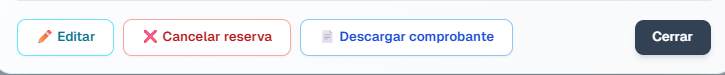
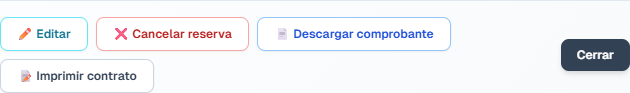
docs: manual de octubre con contrato, usuarios y soporte
El manual suma imprimir y configurar el contrato, los usuarios del
personal con sus roles, el panel de Soporte y sus preguntas
frecuentes. Las preguntas frecuentes de la app suman el contrato y los
usuarios, y la ayuda del rol Pileta dice lo que ve ahora: solo los pases.

Changed region(s): [[0.0, 0.16, 0.7238, 0.88], [0.8746, 0.2667, 1.0, 0.7733], [0.0, 0.9333, 1.0, 1.0]]

diff --git a/docs/manual/manual.html b/docs/manual/manual.html
@@ -74,10 +74,10 @@
   <div>
     <div class="marca">BALNEARIO ZEUS</div>
     <h1>Manual de uso<br>del sistema</h1>
-    <p class="bajada">Reservas de carpas, sombrillas, estacionamiento y pileta, servicios incluidos, cobros, clientes, reportes y tarifas.</p>
+    <p class="bajada">Reservas de carpas, sombrillas, estacionamiento y pileta, servicios incluidos, cobros, clientes, reportes, tarifas, contratos y usuarios del personal.</p>
   </div>
   <img src="img/03-vista-rapida.png" alt="">
-  <div class="pie">Versión octubre 2026 · Para el encargado del balneario</div>
+  <div class="pie">Versión 20 de octubre de 2026 · Para el dueño y el personal del balneario</div>
 </section>
 
 <!-- ============ CONTENIDO ============ -->
@@ -85,9 +85,9 @@
   <h1 class="cap">Contenido</h1>
   <ol class="indice">
     <li><span class="n">1</span>Entrar al sistema</li>
-    <li><span class="n">2</span>El menú y la pantalla de Inicio</li>
+    <li><span class="n">2</span>El menú, Inicio y Soporte<span class="nuevo">con cambios</span></li>
     <li><span class="n">3</span>Vista rápida: el plano del día</li>
-    <li><span class="n">4</span>Tomar una reserva paso a paso<span class="nuevo">con cambios</span></li>
+    <li><span class="n">4</span>Tomar una reserva paso a paso</li>
     <li><span class="n">5</span>El precio: tarifas, ajustes y avisos</li>
     <li><span class="n">6</span>Ver, cobrar, editar y cancelar una reserva<span class="nuevo">con cambios</span></li>
     <li><span class="n">7</span>Listado de reservas</li>
@@ -96,24 +96,21 @@
     <li><span class="n">10</span>Pileta<span class="nuevo">con cambios</span></li>
     <li><span class="n">11</span>Reportes</li>
     <li><span class="n">12</span>Tarifas: cómo cargar los precios</li>
-    <li><span class="n">13</span>Panel de usuario<span class="nuevo">con cambios</span></li>
-    <li><span class="n">14</span>Preguntas frecuentes</li>
+    <li><span class="n">13</span>Panel de usuario: contrato y usuarios<span class="nuevo">con cambios</span></li>
+    <li><span class="n">14</span>Preguntas frecuentes<span class="nuevo">con cambios</span></li>
   </ol>
 
   <h2>Cómo leer este manual</h2>
   <p>Cada capítulo explica una parte del sistema con capturas de la pantalla real. Los nombres de botones y campos aparecen en <b>negrita</b>, tal como se ven en la pantalla.</p>
-  <p>Si recién empezás, leé en orden los capítulos 1 a 6: con eso ya podés atender el teléfono y el mostrador. Antes de la temporada, leé el capítulo 12 para cargar los precios.</p>
+  <p>Si recién empezás, leé en orden los capítulos 1 a 6: con eso ya podés atender el teléfono y el mostrador. Antes de la temporada, el dueño lee el capítulo 12 para cargar los precios y el 13 para preparar el contrato y darle un usuario a cada persona del balneario.</p>
   <p>El sistema funciona en el navegador (Chrome, Edge o Firefox), en la computadora o en el celular. No hay que instalar nada.</p>
 
   <div class="nota">
     <span class="t">Qué hay de nuevo en esta versión</span>
     <ul>
-      <li><b>Pileta incluida en la carpa:</b> cada carpa trae 4 pases de pileta; elegís a quién le tocan.</li>
-      <li><b>Datos de cada persona</b> (nombre, DNI y edad) en el mismo formulario de la reserva.</li>
-      <li><b>Pases de pileta pagos</b> para quien no entra en los incluidos, vendidos en la misma reserva.</li>
-      <li><b>Cocheras incluidas:</b> el estacionamiento queda atado a la carpa y se mueve y se cancela con ella.</li>
-      <li><b>Cuenta de la reserva:</b> la carpa y todo lo suyo se cobran juntos, con un solo pago.</li>
-      <li><b>Avisos visibles</b> arriba a la derecha cuando algo sale bien o hay que revisar algo.</li>
+      <li><b>Contrato para firmar:</b> cada carpa y sombrilla imprime su contrato con los datos del cliente y las condiciones del balneario (capítulos 6 y 13).</li>
+      <li><b>Un usuario para cada persona:</b> el dueño crea los usuarios del personal, y cada rol ve solo lo suyo (capítulo 13).</li>
+      <li><b>Soporte:</b> preguntas frecuentes y mensajes con nosotros, desde el mismo sistema (capítulo 2).</li>
     </ul>
   </div>
 </section>
@@ -123,6 +120,7 @@
   <h1 class="cap"><span class="n">1</span>Entrar al sistema</h1>
   <p>Abrí la dirección del sistema en el navegador, escribí tu <b>Email</b> y tu <b>Contraseña</b> y tocá <b>Ingresar</b>.</p>
   <figure class="w70"><img src="img/01-ingreso.png" alt=""><figcaption>Pantalla de ingreso.</figcaption></figure>
+  <p>Cada persona entra con su propio usuario. El del dueño es la cuenta principal del balneario; los del personal los crea el dueño (capítulo 13). Según el rol, el menú muestra más o menos secciones.</p>
 
   <h2>La sesión dura una hora</h2>
   <div class="lado">
@@ -137,7 +135,7 @@
 
 <!-- ============ 2 ============ -->
 <section class="capitulo">
-  <h1 class="cap"><span class="n">2</span>El menú y la pantalla de Inicio</h1>
+  <h1 class="cap"><span class="n">2</span>El menú, Inicio y Soporte</h1>
   <div class="lado">
     <figure class="f25"><img src="img/02-menu.png" alt=""><figcaption>Menú lateral.</figcaption></figure>
     <div class="texto">
@@ -152,8 +150,10 @@
         <tr><td>Clientes</td><td>Fichas de clientes y deudas.</td></tr>
         <tr><td>Reportes</td><td>Cobros y ocupación por fechas.</td></tr>
         <tr><td>Tarifas</td><td>Temporadas, sectores y precios.</td></tr>
-        <tr><td>Panel de usuario</td><td>Tu email, tu contraseña, los datos del balneario y las reglas de las reservas.</td></tr>
+        <tr><td>Panel de usuario</td><td>Tu email y tu contraseña. El dueño además ve los datos del balneario, el contrato y los usuarios.</td></tr>
+        <tr><td>Soporte</td><td>Abajo de todo: preguntas frecuentes y mensajes con nosotros.</td></tr>
       </table>
+      <p>Así ve el menú el dueño. El empleado no ve <b>Tarifas</b> ni <b>Soporte</b>; el usuario de pileta solo ve <b>Pileta</b> y <b>Panel de usuario</b>.</p>
     </div>
   </div>
 
@@ -164,6 +164,21 @@
   <h2>Los avisos</h2>
   <p>Cuando guardás algo o hay algo para revisar, aparece un aviso arriba a la derecha de la pantalla. Los avisos de que algo salió bien se van solos; los que piden revisar algo quedan hasta que los cerrás con la <b>×</b>.</p>
   <figure class="w60"><img src="img/06-aviso.png" alt=""><figcaption>Aviso después de mover una carpa que tiene un pase de pileta pago.</figcaption></figure>
+
+  <h2>Soporte: preguntas frecuentes y mensajes</h2>
+  <div class="lado">
+    <div class="texto">
+      <p>El botón <b>Soporte</b>, abajo de todo en el menú, abre un panel encima de la pantalla en la que estás. Lo que estabas haciendo queda como estaba: al cerrar el panel seguís donde estabas.</p>
+      <p>Tiene dos pestañas:</p>
+      <ul>
+        <li><b>Preguntas frecuentes</b>: las dudas más comunes, con los pasos y las capturas. Arriba aparecen las de la pantalla en la que estás, y el buscador encuentra por palabra (pago, cochera, tarifa…).</li>
+        <li><b>Mensajes</b>: para escribirnos. Podés marcar si es un error, una sugerencia o una consulta. Te respondemos ahí mismo.</li>
+      </ul>
+      <p>Cuando hay una respuesta nuestra sin leer, el botón Soporte muestra un número y el panel se abre directo en Mensajes.</p>
+      <div class="nota"><p>Soporte lo usa solo el dueño, que es quien habla con nosotros. El personal no lo ve: si tiene una duda, se la consulta al dueño.</p></div>
+    </div>
+    <figure class="f40"><img src="img/02-soporte.png" alt=""><figcaption>Soporte, abierto en Preguntas frecuentes.</figcaption></figure>
+  </div>
 </section>
 
 <!-- ============ 3 ============ -->
@@ -326,7 +341,7 @@
         <li><b>Servicios incluidos</b>: el saldo de toda la cuenta y cada cosa asociada.</li>
         <li><b>Personas</b>: el titular y los acompañantes, con sus pases de pileta.</li>
         <li><b>Historial de pagos</b> de la carpa.</li>
-        <li>Abajo, los botones <b>Editar</b>, <b>Cancelar reserva</b>, <b>Descargar comprobante</b> y <b>Cerrar</b>.</li>
+        <li>Abajo, los botones <b>Editar</b>, <b>Cancelar reserva</b>, <b>Descargar comprobante</b>, <b>Imprimir contrato</b> (en carpas y sombrillas) y <b>Cerrar</b>.</li>
       </ul>
       <div class="nota"><p>El <b>Resumen financiero</b> muestra solo la carpa. Lo que debe el cliente en total está en <b>Saldo de la cuenta</b>, dentro de Servicios incluidos.</p></div>
     </div>
@@ -381,6 +396,19 @@
 
   <h2>Descargar el comprobante</h2>
   <p><b>Descargar comprobante</b> genera un PDF para darle al cliente. Es el comprobante de <b>toda la cuenta</b>: la carpa, la pileta incluida con los nombres, cada cochera, cada pase pago, el <b>Total de la cuenta</b>, cada pago como lo hizo el cliente y el <b>saldo</b>.</p>
+
+  <div style="break-inside: avoid">
+  <h2>Imprimir el contrato</h2>
+  <p>Las carpas y las sombrillas tienen <b>Imprimir contrato</b>. Baja un PDF listo para imprimir y que el cliente lo firme. Lleva:</p>
+  <ul>
+    <li><b>Datos del titular</b>: nombre, DNI, ciudad, dirección y teléfono, de la ficha del cliente.</li>
+    <li><b>Contratación</b>: la unidad, el período, el importe total de la cuenta, la forma de pago (los medios de los pagos hechos) y las cocheras con su patente.</li>
+    <li><b>Registro de personas</b>: los acompañantes cargados, y renglones con puntos para completar a mano hasta el máximo de personas.</li>
+    <li><b>Condiciones generales</b> del balneario, con las fechas y los horarios de la temporada en negrita.</li>
+  </ul>
+  </div>
+  <figure class="w70"><img src="img/06-contrato.png" alt=""><figcaption>El principio de un contrato impreso.</figcaption></figure>
+  <p>Si en la ficha del cliente falta un dato, como el DNI o la dirección, en el contrato sale con puntos para completarlo a mano. El título y las condiciones los carga el dueño en <b>Panel de usuario › Contrato</b> (capítulo 13).</p>
 
   <h2>Los botones del pie</h2>
   <figure class="w80"><img src="img/06-botones.png" alt=""></figure>
@@ -467,8 +495,12 @@
     <tr><td>(sin etiqueta)</td><td>Un pase suelto, para alguien que viene solo a la pileta.</td></tr>
   </table>
   <p>Con <b>Nuevo Pase</b> vendés un pase suelto: elegís el cliente (obligatorio), las fechas, cuántos adultos y niños, y el precio por adulto y por niño por día. El sistema calcula el total. <b>Ver Detalle</b> abre el pase para cobrarlo o editarlo.</p>
-  <figure class="w60"><img src="img/10-pileta.png" alt=""><figcaption>Gestión de Pileta, con pases incluidos en carpas.</figcaption></figure>
+  <figure class="w50"><img src="img/10-pileta.png" alt=""><figcaption>Gestión de Pileta, con pases incluidos en carpas.</figcaption></figure>
   <p>La pileta no usa las tarifas del capítulo 12: el precio por persona se carga en cada pase.</p>
+  <div class="nota">
+    <span class="t">El usuario de pileta</span>
+    <p>Quien controla la entrada a la pileta puede tener su propio usuario, con el rol <b>Pileta</b> (capítulo 13). Lo usa desde el celular y ve solo esta pantalla: la lista de pases y quién va en cada uno. No ve cobros ni clientes, y no vende ni cambia pases.</p>
+  </div>
 </section>
 
 <!-- ============ 11 ============ -->
@@ -529,8 +561,8 @@
 
 <!-- ============ 13 ============ -->
 <section class="capitulo">
-  <h1 class="cap"><span class="n">13</span>Panel de usuario</h1>
-  <p>En <b>Panel de usuario</b> hay dos pestañas.</p>
+  <h1 class="cap"><span class="n">13</span>Panel de usuario: contrato y usuarios</h1>
+  <p>En <b>Panel de usuario</b> el dueño ve cuatro pestañas: <b>Perfil</b>, <b>Establecimiento</b>, <b>Contrato</b> y <b>Usuarios</b>. El personal ve solo Perfil.</p>
   <h2>Perfil</h2>
   <p>Tu email de ingreso. Con <b>Cambiar email</b> y <b>Cambiar contraseña</b> los actualizás; siempre pide la contraseña actual. La contraseña nueva tiene que tener al menos 8 caracteres.</p>
   <figure class="w70"><img src="img/12-perfil.png" alt=""><figcaption>Pestaña Perfil.</figcaption></figure>
@@ -548,6 +580,62 @@
     </div>
     <figure class="f50"><img src="img/12-establecimiento.png" alt=""><figcaption>Servicios, capacidad y reglas de las reservas.</figcaption></figure>
   </div>
+</section>
+
+<section class="capitulo">
+  <h2>Contrato</h2>
+  <p>Acá se carga lo que sale en el contrato de cada carpa y sombrilla (capítulo 6). Tiene tres partes. Abajo, <b>Guardar</b> aplica los cambios y <b>Vista previa en PDF</b> baja un contrato de ejemplo, con los datos del cliente en blanco.</p>
+  <h3>1 · Título</h3>
+  <p>Va arriba de todo, en mayúsculas. También acepta datos, como {Temporada}.</p>
+  <h3>2 · Datos del contrato</h3>
+  <p>Las fechas, los horarios y las cantidades que cambian de una temporada a otra. Cada dato tiene un nombre y un valor: el valor se cambia acá y se actualiza solo en todo el texto.</p>
+  <figure class="w70"><img src="img/13-contrato-datos.png" alt=""><figcaption>Los datos del contrato de Zeus.</figcaption></figure>
+  <ul>
+    <li><b>+ Agregar dato</b> suma uno nuevo; el tacho lo quita.</li>
+    <li>El botón de insertar, a la derecha de cada dato, lo pone en las condiciones donde está el cursor.</li>
+    <li>Los dos de arriba, con candado, los pone el sistema: <b>Máximo de personas</b> y <b>Balneario</b>. Se cambian en la pestaña Establecimiento.</li>
+  </ul>
+</section>
+
+<section>
+  <h3>3 · Condiciones generales</h3>
+  <p>El texto del contrato. A la izquierda se escribe y a la derecha, en <b>Así se lee en el contrato</b>, se ve cómo sale impreso, con los datos ya puestos y resaltados.</p>
+  <figure><img src="img/13-contrato-texto.png" alt=""><figcaption>Las condiciones y cómo se leen en el contrato.</figcaption></figure>
+  <table>
+    <tr><th style="width:38%">Si escribís</th><th>En el contrato sale</th></tr>
+    <tr><td>{Pileta abre}</td><td>El valor del dato, en negrita: <b>13.30</b>. Mayúsculas y minúsculas dan igual.</td></tr>
+    <tr><td>**OBLIGATORIO**</td><td>El renglón entero en negrita.</td></tr>
+    <tr><td>Un renglón vacío</td><td>Un párrafo nuevo.</td></tr>
+  </table>
+  <p>Un dato sin valor sale con puntos, para completarlo a mano. Si escribís entre llaves un nombre que no está en la tabla, sale tal cual y la pantalla avisa cuál es, para que lo agregues o corrijas el nombre.</p>
+  <div class="ejemplo">
+    <span class="t">Para la temporada que viene</span>
+    <p>Cambiá en la tabla el valor de <b>Temporada</b>, <b>Inicio de temporada</b> y <b>Fin de temporada</b>, y tocá <b>Guardar</b>. No hace falta tocar el texto.</p>
+  </div>
+</section>
+
+<section>
+  <h2>Usuarios: el personal del balneario</h2>
+  <p>Cada persona del balneario entra con su propio usuario y ve solo lo que su rol le permite. El dueño es la cuenta principal: administra todo y es el único que crea usuarios.</p>
+  <div class="lado">
+    <div class="texto">
+      <p>Para crear un usuario, escribí su <b>Email</b>, elegí el <b>Rol</b> y tocá <b>Crear usuario</b>. El sistema arma la clave y la muestra una sola vez: anotala o tocá <b>Copiar usuario y clave</b> y pasásela. Después la persona la puede cambiar desde su Panel de usuario.</p>
+      <p>En la lista, cada usuario tiene:</p>
+      <ul>
+        <li>el <b>rol</b>, que se cambia ahí mismo;</li>
+        <li><b>Clave nueva</b>, si se olvidó la suya: arma otra y la muestra una vez;</li>
+        <li>el tacho, que borra el usuario. Hacelo cuando alguien deja de trabajar en el balneario: así ya no puede entrar.</li>
+      </ul>
+      <p>El dueño aparece primero, sin acciones: su cuenta no se cambia desde acá.</p>
+    </div>
+    <figure class="f50"><img src="img/13-usuarios.png" alt=""><figcaption>El dueño, dos empleados y el de pileta.</figcaption></figure>
+  </div>
+  <table>
+    <tr><th style="width:18%">Rol</th><th>Qué ve y qué puede hacer</th></tr>
+    <tr><td>Dueño</td><td>Todo: reservas, cobros, clientes, reportes, tarifas, la configuración del balneario, el contrato, los usuarios y Soporte.</td></tr>
+    <tr><td>Empleado</td><td>Reservas, cobros, clientes y reportes. Imprime contratos y comprobantes. No ve Tarifas ni Soporte, y no cambia la configuración, el contrato ni los usuarios.</td></tr>
+    <tr><td>Pileta</td><td>Solo la pantalla de Pileta: los pases y quién va en cada uno. No ve cobros ni clientes, y no vende ni cambia pases. Pensado para el celular, en la entrada de la pileta.</td></tr>
+  </table>
 </section>
 
 <!-- ============ 14 ============ -->
@@ -569,6 +657,13 @@
     <tr><td>Un cliente viene con otro auto.</td><td>Escribí la patente nueva en la reserva: la patente va en cada reserva, no solo en la ficha del cliente.</td></tr>
     <tr><td>Quiero saber cuánto se cobró hoy en efectivo.</td><td>Reportes → Pagos, con la fecha de hoy y el método Efectivo.</td></tr>
     <tr><td>Quiero ver quién se fue debiendo plata.</td><td>Clientes, tildando Solo con deuda de reservas terminadas.</td></tr>
+    <tr><td>Quiero imprimir el contrato de una carpa.</td><td>Abrí la reserva y tocá Imprimir contrato, abajo en el detalle.</td></tr>
+    <tr><td>En el contrato sale un dato con puntos.</td><td>Si es del cliente (DNI, dirección), completalo en su ficha. Si es de las condiciones, cargale el valor en Panel de usuario › Contrato.</td></tr>
+    <tr><td>Cambian las fechas o los horarios de la temporada.</td><td>Panel de usuario › Contrato: cambiá el valor en la tabla de datos y tocá Guardar. El texto se actualiza solo.</td></tr>
+    <tr><td>Quiero darle un usuario a un empleado.</td><td>Panel de usuario › Usuarios: su email, el rol Empleado y Crear usuario. Pasale la clave que aparece: no se vuelve a mostrar.</td></tr>
+    <tr><td>Un empleado se olvidó la clave.</td><td>Panel de usuario › Usuarios, Clave nueva en su renglón.</td></tr>
+    <tr><td>El empleado no ve Tarifas ni Soporte.</td><td>Es así: esas dos las usa solo el dueño.</td></tr>
+    <tr><td>Tengo una duda o encontré un error.</td><td>Soporte, abajo en el menú: buscá en Preguntas frecuentes o escribinos en Mensajes.</td></tr>
   </table>
 </section>
 

diff --git a/frontend/src/config/preguntasFrecuentes.js b/frontend/src/config/preguntasFrecuentes.js
@@ -241,6 +241,18 @@ export const PREGUNTAS_FRECUENTES = [
     ],
     secciones: ['reservas', 'carpas', 'sombrillas']
   },
+  {
+    id: 'imprimir-contrato',
+    pregunta: '¿Cómo imprimo el contrato de una carpa?',
+    resumen: 'Desde la reserva de la carpa o la sombrilla se baja un PDF listo para firmar.',
+    pasos: [
+      { texto: 'Abrí la reserva.' },
+      { texto: 'Tocá **Imprimir contrato**, abajo de todo.', imagen: '06-botones.png' },
+      { texto: 'Se descarga un PDF con los datos del titular, la unidad, el período, el importe, las cocheras, las personas y las condiciones del balneario. Imprimilo y que lo firme.', imagen: '06-contrato.png' }
+    ],
+    nota: 'Lo que falte en la ficha del cliente, como el DNI o la dirección, sale con puntos para completar a mano.',
+    secciones: ['reservas', 'carpas', 'sombrillas']
+  },
 
   // --- Cambiar o cancelar ---
   {
@@ -309,6 +321,18 @@ export const PREGUNTAS_FRECUENTES = [
     nota: 'Las fechas no tienen año. Los días que no caen en ningún período se marcan en rojo en la tira del año: esas reservas saldrían “Consultar precio”.',
     secciones: ['tarifas']
   },
+  {
+    id: 'datos-contrato',
+    pregunta: '¿Cómo cambio las fechas o los horarios del contrato?',
+    resumen: 'En **Panel de usuario**, pestaña **Contrato**: se cambia el valor en la tabla de datos y el texto se actualiza solo.',
+    pasos: [
+      { texto: 'Entrá a **Panel de usuario**, pestaña **Contrato**.' },
+      { texto: 'En **Datos del contrato**, cambiá el valor que corresponda: la temporada, una fecha, un horario.', imagen: '13-contrato-datos.png' },
+      { texto: 'Tocá **Guardar**. Con **Vista previa en PDF** ves cómo queda.' }
+    ],
+    nota: 'En las condiciones, un dato se escribe con su nombre entre llaves, como {Pileta abre}, y sale en negrita con su valor.',
+    secciones: ['panel-usuario']
+  },
 
   // --- Cuenta ---
   {
@@ -329,6 +353,25 @@ export const PREGUNTAS_FRECUENTES = [
       { texto: 'Entrá a **Panel de usuario**, pestaña **Perfil**.', imagen: '12-perfil.png' },
       { texto: 'Tocá **Cambiar contraseña**, escribí la actual y la nueva (de 8 caracteres o más) y guardá.' }
     ],
+    secciones: ['panel-usuario']
+  },
+  {
+    id: 'usuario-empleado',
+    pregunta: 'Quiero darle un usuario a un empleado.',
+    resumen: 'En **Panel de usuario**, pestaña **Usuarios**. Cada persona entra con el suyo y ve solo lo que su rol le permite.',
+    pasos: [
+      { texto: 'Entrá a **Panel de usuario**, pestaña **Usuarios**.' },
+      { texto: 'Escribí su **Email**, elegí el **Rol** y tocá **Crear usuario**.', imagen: '13-usuarios.png' },
+      { texto: 'Pasale la clave que aparece, o tocá **Copiar usuario y clave**: no se vuelve a mostrar.' }
+    ],
+    nota: '**Empleado**: reservas, cobros, clientes y reportes, sin Tarifas ni Soporte. **Pileta**: solo los pases de pileta, para controlar la entrada desde el celular.',
+    secciones: ['panel-usuario']
+  },
+  {
+    id: 'clave-empleado',
+    pregunta: 'Un empleado se olvidó la clave.',
+    resumen: 'En **Panel de usuario**, pestaña **Usuarios**, tocá **Clave nueva** en su renglón y pasale la que aparece.',
+    nota: 'Si alguien deja de trabajar en el balneario, borrá su usuario con el tacho: así ya no puede entrar.',
     secciones: ['panel-usuario']
   }
 ];

diff --git a/frontend/src/components/usuarios/UsuariosPanel.test.jsx b/frontend/src/components/usuarios/UsuariosPanel.test.jsx
@@ -41,7 +41,7 @@ describe('Panel de usuario > Usuarios', () => {
     await screen.findByRole('list', { name: 'Usuarios del balneario' });
     fireEvent.change(screen.getByLabelText('Email'), { target: { value: 'pileta@balneario.test' } });
     fireEvent.change(screen.getByLabelText('Rol'), { target: { value: 'pileta' } });
-    expect(screen.getByText(/Solo mira reservas/)).toBeInTheDocument();
+    expect(screen.getByText(/Solo ve los pases de pileta/)).toBeInTheDocument();
     fireEvent.click(screen.getByRole('button', { name: 'Crear usuario' }));
 
     const aviso = await screen.findByRole('status');

diff --git a/frontend/src/lib/usuariosApi.js b/frontend/src/lib/usuariosApi.js
@@ -12,7 +12,7 @@ export const ETIQUETA_ROL = {
 /** Qué puede hacer cada rol del personal, para elegirlo con conocimiento. */
 export const AYUDA_ROL = {
   operador: 'Reservas, clientes, cobros y reportes. No cambia tarifas, contrato ni usuarios.',
-  pileta: 'Solo mira reservas, pases y clientes, para controlar la pileta.'
+  pileta: 'Solo ve los pases de pileta y quién va en cada uno, para controlar la entrada. No ve cobros ni clientes.'
 };
 
 const ERRORES = {

diff --git a/CLAUDE.md b/CLAUDE.md
@@ -65,7 +65,7 @@ Al agregar una columna, reflejarla también en `backend/schema.sql` para instala
 
 ```bash
 cd api && npm test        # 283 tests del router serverless y de _incluidos / _tarifas / _soporte / _cuentas / _contrato / _usuarios
-cd frontend && npm test   # 388 tests de componentes y utilidades
+cd frontend && npm test   # 390 tests de componentes y utilidades
 ```
 
 `backend/src/index.js` **no tiene tests**. Cuando se replica un endpoint ahí, la cobertura viene del test equivalente en `api/`.
